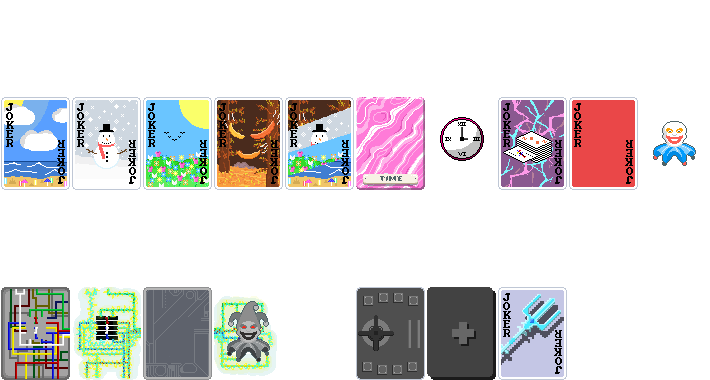
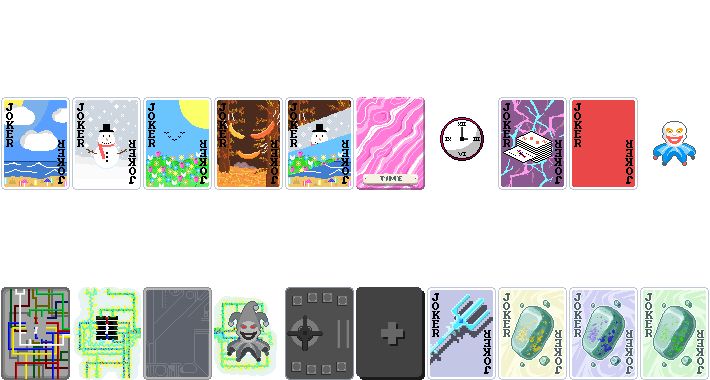
Add files via upload

Changed region(s): [[0.4028, 0.7526, 1.0, 1.0]]

diff --git a/README.md b/README.md
@@ -21,6 +21,9 @@ Electric Box
 Super Charged Blueprint,
 Safe,
 Trident Joker,
+Lightningstone,
+Seastone,
+Plasmastone,
 Time Joker
 
 Tarots:
